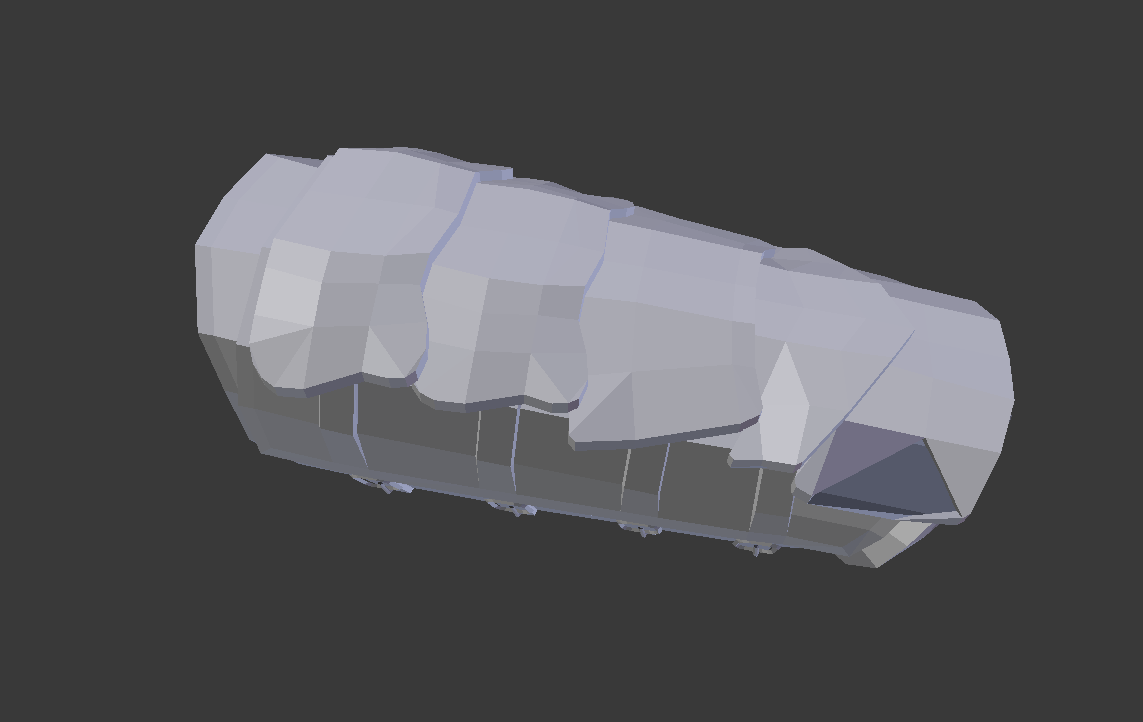
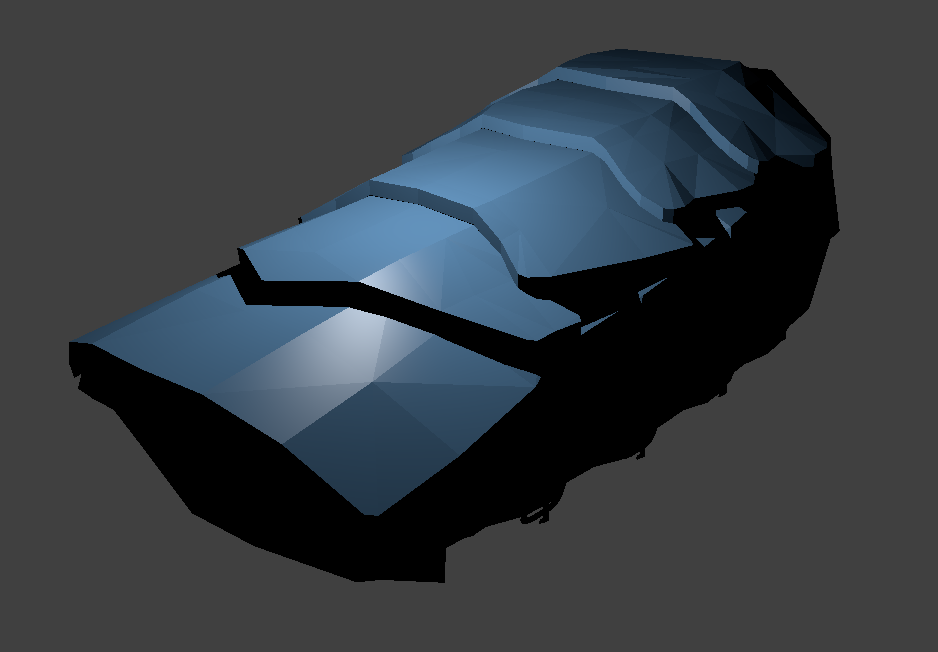
New Guard render image

diff --git a/web/index.html b/web/index.html
@@ -89,7 +89,7 @@
                 <div class="bs-component">
                     <div class="card">
                         <div class="card-image">
-                            <img src="images/sword.jpg">
+                            <img src="images/guard.png">
                                 </div>
                         <div class="card-content" id="guard">
                             <a class="card-header">Wrist Guard</a>
